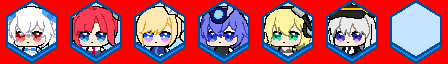
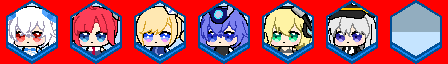
shipgirl sprite opacity + adhoc marker/glow issue fix - added todo to fix this in future if need to

Changed region(s): [[0.875, 0.0625, 1.0, 0.5]]

diff --git a/src/menus/fleet_selection_menu.py b/src/menus/fleet_selection_menu.py
@@ -431,14 +431,19 @@ class FleetSelectionMenu:
                     marker = pygame.transform.flip(marker, flip_x=True, flip_y=False)
                 marker_rect = marker.get_rect()
                 marker_rect.center = slot.center
+                surface.blit(marker, marker_rect)
+                if marker_key == "blank":
+                    shipgirl.draw(surface, font_registry, alpha=160)
+                # TODO ad hoc solution right now with the sprite, need to figure out if
+                # there is a programmatic way to fix this issue
+                # the issue right now is that if the blank marker has the same color for
+                # the face, then the glow add blending will cause the upper half of the
+                # marker to be brighter than the lower half
                 if marker_hovered:
                     glow = DataFiles.sprites["fleet_selection"]["marker_selection_glow"]
                     glow_rect = glow.get_rect()
                     glow_rect.midbottom = marker_rect.center
                     surface.blit(glow, glow_rect, special_flags=pygame.BLEND_RGB_ADD)
-                surface.blit(marker, marker_rect)
-                if marker_key == "blank":
-                    shipgirl.draw(surface, font_registry)
             elif self.selected_shipgirl is not None:
                 anchor_sprite = DataFiles.sprites["user_interface"]["start_sortie"]
                 anchor_rect = anchor_sprite.get_rect()

diff --git a/src/constants.py b/src/constants.py
@@ -56,7 +56,7 @@ class Color:
     BLUEPRINT_PAGE = (56, 88, 162)
     BLUEPRINT_PAGE_BACK = (24, 48, 103)
     BLUEPRINT_PAGE_GLOW = (102, 148, 255)
-    BLUEPRINT_SLOT_BORDER_GLOW = (204, 220, 255)
+    BLUEPRINT_SLOT_BORDER_GLOW = (51, 55, 64)
     STICKY_NOTE = (255, 232, 126)
     STICKY_NOTE_BACK = (224, 188, 71)
     STICKY_NOTE_OUTLINE = (169, 126, 41)
@@ -300,7 +300,7 @@ fleet_marker_selection_glow_top_width = math.ceil(2 * Box.WIDTH)
 fleet_marker_selection_glow_bottom_width = math.ceil(0.75 * Box.WIDTH)
 fleet_marker_selection_glow_size = (fleet_marker_selection_glow_top_width, math.ceil(1.5 * Box.HEIGHT))
 fleet_marker_selection_glow = pygame.Surface(fleet_marker_selection_glow_size)
-fleet_marker_selection_glow_color = tuple(c // 2 for c in Color.BLUEPRINT_SLOT_BORDER_GLOW)
+fleet_marker_selection_glow_color = Color.BLUEPRINT_SLOT_BORDER_GLOW
 fleet_marker_selection_glow_top_fade = math.ceil(fleet_marker_selection_glow_size[1] * 1.0)
 for y in range(fleet_marker_selection_glow_size[1]):
     y_ratio = y / (fleet_marker_selection_glow_size[1] - 1)

diff --git a/live2d/live2d.py b/live2d/live2d.py
@@ -203,9 +203,19 @@ class Live2D:
                 self.set_rotation(part, walk_animation[0] * anim_t[walk_animation[1]])
             self.set_offset("torso", pygame.Vector2(0, 5 * sint_sq))
 
-    def draw(self, surface, x, y, flipx):
-        root = pygame.Vector2(x, y)
+    def draw(self, surface, x, y, flipx, alpha=255):
+        alpha = int(max(0, min(255, alpha)))
+        root = pygame.Vector2(LAYER_SIZE, LAYER_SIZE)
+
+        sprite_surf = pygame.Surface((2*LAYER_SIZE, 2*LAYER_SIZE))
+        sprite_surf.fill((255, 0, 0))
+        sprite_surf.set_colorkey((255, 0, 0))
 
         for part in self.DRAW_ORDER:
             if part in self.parts:
-                self.parts[part].draw(surface, root, flipx)
+                self.parts[part].draw(sprite_surf, root, flipx)
+
+        sprite_surf.set_alpha(alpha)
+        sprite_rect = sprite_surf.get_rect()
+        sprite_rect.center = (x, y)
+        surface.blit(sprite_surf, sprite_rect)

diff --git a/src/shipgirls.py b/src/shipgirls.py
@@ -434,10 +434,10 @@ class Shipgirl:
     def animate(self, dt):
         self.sprite.update(dt)
 
-    def draw(self, surface, font_registry):
+    def draw(self, surface, font_registry, alpha=255):
         shake_amt = 4
         shake_offset = shake_amt * math.sin(4*math.radians(360)*self.battle_component.shake_time)
-        self.sprite.draw(surface, self.rect.centerx + shake_offset, self.rect.centery, not self.facing_left)
+        self.sprite.draw(surface, self.rect.centerx + shake_offset, self.rect.centery, not self.facing_left, alpha=alpha)
 
 class PlayerFleet:
     def __init__(self):
